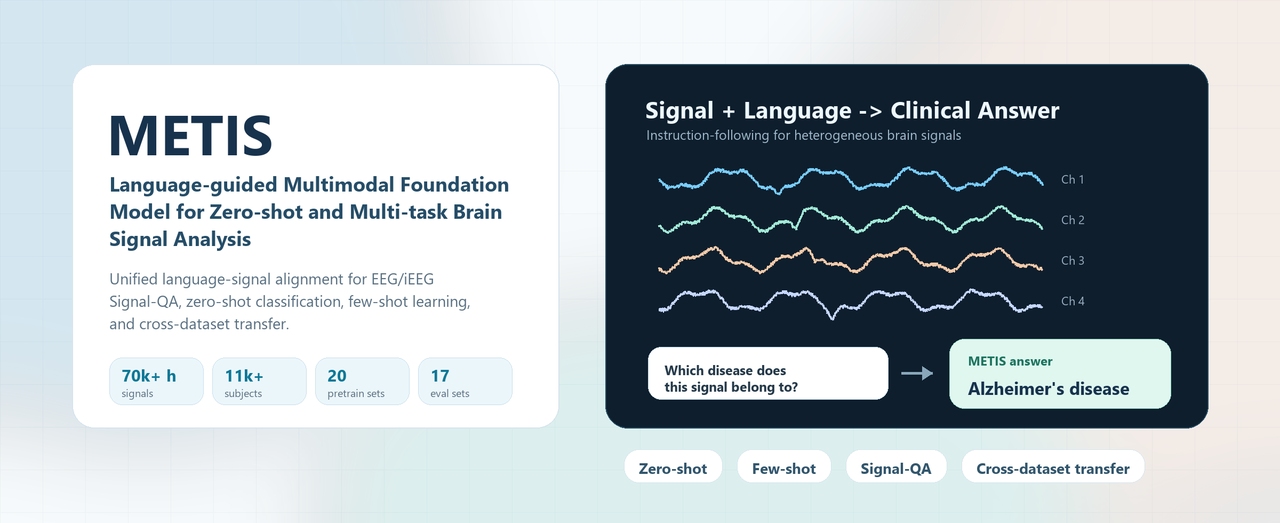
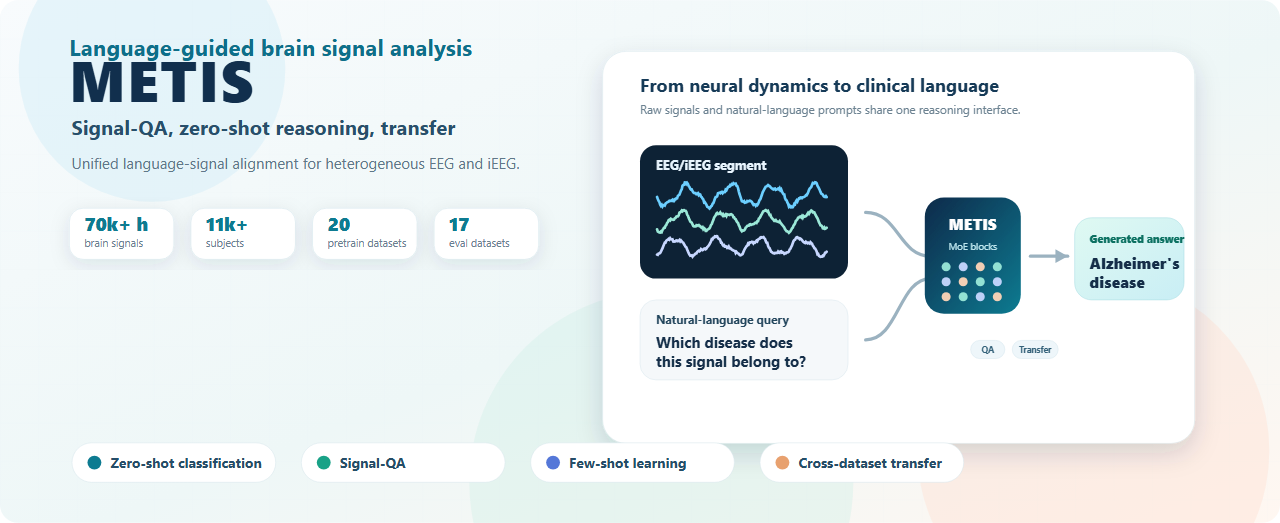
Refine repository showcase branding

diff --git a/README.md b/README.md
@@ -1,26 +1,28 @@
 <div align="center">
 
-<img src="assets/metis_banner.png" alt="METIS banner: language-guided multimodal foundation model for brain signal analysis" width="100%">
+<img src="assets/metis_wordmark.svg" alt="METIS wordmark" width="520">
 
-# METIS
+### A Language-guided Multimodal Foundation Model for Zero-shot and Multi-task Brain Signal Analysis
 
-**A Language-guided Multimodal Foundation Model for Zero-shot and Multi-task Brain Signal Analysis**
+[![Paper](https://img.shields.io/badge/Paper-coming%20soon-15395b?style=flat-square)](#citation)
+[![Project Page](https://img.shields.io/badge/Project%20Page-planned-0f766e?style=flat-square)](docs/SHOWCASE_PLAN.md#project-page)
+[![Demo Video](https://img.shields.io/badge/Demo%20Video-planned-b85c38?style=flat-square)](docs/SHOWCASE_PLAN.md#demo-video)
+[![Hugging Face](https://img.shields.io/badge/Hugging%20Face-planned-f6b43f?style=flat-square)](MODEL_ZOO.md)
+[![ModelScope](https://img.shields.io/badge/ModelScope-planned-6b5bd6?style=flat-square)](MODEL_ZOO.md)
+[![License](https://img.shields.io/badge/License-pending-6b7280?style=flat-square)](LICENSE_PENDING.md)
 
-[![Paper](https://img.shields.io/badge/Paper-coming%20soon-2f6f8f?style=for-the-badge)](#citation)
-[![Weights](https://img.shields.io/badge/Weights-upon%20publication-5b8def?style=for-the-badge)](MODEL_ZOO.md)
-[![License](https://img.shields.io/badge/License-pending-lightgrey?style=for-the-badge)](LICENSE_PENDING.md)
-[![Brain Signals](https://img.shields.io/badge/EEG%20%2B%20iEEG-70k%2B%20hours-0f766e?style=for-the-badge)](docs/DATASETS.md)
+<img src="assets/metis_hero.svg" alt="METIS language-signal alignment overview" width="100%">
 
-METIS aligns heterogeneous brain signals with natural-language instructions, turning neural-state assessment and disease identification into a unified Signal-QA problem.
+**METIS aligns heterogeneous brain signals with natural-language instructions, turning neural-state assessment and disease identification into a unified Signal-QA problem.**
 
-[Overview](#overview) | [Highlights](#highlights) | [Benchmarks](#benchmark-snapshots) | [Datasets](docs/DATASETS.md) | [Model Card](docs/MODEL_CARD.md) | [Model Zoo](MODEL_ZOO.md) | [Citation](#citation)
+[Overview](#overview) | [Highlights](#highlights) | [Benchmarks](#benchmark-snapshots) | [Release Roadmap](#release-roadmap) | [Datasets](docs/DATASETS.md) | [Model Card](docs/MODEL_CARD.md) | [Model Zoo](MODEL_ZOO.md) | [Citation](#citation)
 
 </div>
 
 ## News
 
 - **Release plan.** Code, checkpoints, and inference examples will be organized for a public release after publication review.
-- **Repository polish.** This README and the companion docs are prepared as the public-facing package layer; model code remains unchanged.
+- **Showcase plan.** The repository is prepared for a staged release with paper links, a project page, demo video, Hugging Face / ModelScope cards, and cleaned inference examples. See [docs/SHOWCASE_PLAN.md](docs/SHOWCASE_PLAN.md).
 
 ## Overview
 
@@ -94,11 +96,27 @@ General-purpose multimodal models often show thematic bias or modality confusion
 More details are available in [docs/BENCHMARKS.md](docs/BENCHMARKS.md).
 High-resolution PDF versions of the manuscript figures are available in [assets/pdf](assets/pdf).
 
+## Release Roadmap
+
+<p align="center">
+  <img src="assets/demo_teaser.svg" alt="METIS demo video teaser" width="82%">
+</p>
+
+| Surface | Role | Status |
+|---|---|---|
+| Paper / arXiv / DOI | Official citation and technical report | Planned after publication metadata is available |
+| Project page | Polished public landing page with figures, demo clip, and benchmark highlights | Planned |
+| Demo video | Short Signal-QA walkthrough for GitHub, project page, and model hubs | Storyboard prepared |
+| Hugging Face | Model card, collection, checkpoint release, and optional Space | Template prepared in [docs/HF_MODEL_CARD_TEMPLATE.md](docs/HF_MODEL_CARD_TEMPLATE.md) |
+| ModelScope | China-accessible mirror for model assets and demo materials | Planned |
+
 ## Repository Map
 
 ```text
 metis-brain-signal-foundation-model/
 |-- assets/                 # README figures and social preview assets
+|   |-- metis_wordmark.svg   # project wordmark
+|   |-- metis_hero.svg       # README hero visual
 |-- docs/                   # model, dataset, and benchmark documentation
 |-- MODEL_ZOO.md            # checkpoint release table and usage status
 |-- README.md               # public-facing project homepage

diff --git a/docs/SHOWCASE_PLAN.md b/docs/SHOWCASE_PLAN.md
@@ -1,0 +1,69 @@
+# Showcase Plan
+
+This document records the repository packaging direction for METIS. It is meant to keep the GitHub repository, future project page, demo video, and model hub pages visually and narratively consistent.
+
+## Reference Patterns
+
+The current direction borrows structural patterns from strong model repositories rather than copying their visual identity:
+
+| Reference Pattern | What To Borrow | METIS Adaptation |
+|---|---|---|
+| Qwen / DeepSeek style landing block | Centered wordmark, concise tagline, dense link row, clean performance sections | Use a professional METIS wordmark and a compact link matrix for paper, demo, model hubs, and docs. |
+| PKU-YuanGroup / Helios style release page | Clear launch links, demo video section, model download matrix, news log | Add planned project page, demo video, Hugging Face, ModelScope, and release-roadmap slots before public launch. |
+| MiniMind-V style community packaging | Strong visual identity, demo entry, collection links, accessible onboarding | Keep README friendly and skimmable while preserving the serious biomedical tone. |
+
+## Visual System
+
+| Element | Direction |
+|---|---|
+| Palette | Clinical navy, signal teal, soft cyan, restrained warm accent. |
+| Logo | Waveform icon plus METIS wordmark, designed to work on white backgrounds. |
+| Hero visual | Lightweight mechanism diagram: signal + prompt -> METIS -> generated clinical answer. |
+| Figures | Manuscript figures stay white-background PNGs in README, with PDF versions in `assets/pdf`. |
+| Tone | Foundation-model release page, not a generic paper repository. |
+
+## Project Page
+
+Planned sections:
+
+1. Hero: METIS wordmark, one-line claim, and main action buttons.
+2. Interactive Signal-QA demo clip or video.
+3. Four capability cards: zero-shot, Signal-QA, few-shot, cross-dataset transfer.
+4. Architecture story with Figure 1 and simplified diagrams.
+5. Benchmark highlights with Figure 2 / Figure 3 / Figure 5.
+6. Dataset scale and evaluation coverage.
+7. Citation, license, and release status.
+
+## Demo Video
+
+Recommended video structure:
+
+1. 5 seconds: problem framing, "brain signal analysis is fragmented".
+2. 10 seconds: show signal + natural-language prompt.
+3. 15 seconds: METIS answer generation and Signal-QA examples.
+4. 15 seconds: zero-shot and generalist-model comparison.
+5. 10 seconds: dataset scale and release information.
+6. 5 seconds: GitHub / Hugging Face / paper links.
+
+Visual teaser asset: [`assets/demo_teaser.svg`](../assets/demo_teaser.svg).
+
+## Hugging Face And Model Hubs
+
+When weights are ready, create:
+
+- a Hugging Face collection for METIS
+- one model card for the main checkpoint
+- one dataset / preprocessing card if redistribution rules allow it
+- a demo Space if inference can be simplified safely
+- a matching ModelScope collection for China-based access
+
+Keep the same wordmark, hero visual, summary claim, and citation block across all pages.
+
+Draft model-card structure: [HF_MODEL_CARD_TEMPLATE.md](HF_MODEL_CARD_TEMPLATE.md).
+
+## Next Visual Improvements
+
+- Add a short animated GIF once the Signal-QA demo is available.
+- Replace planned badges with real links after paper and model release.
+- Add a repository social preview image using `assets/social_preview.png`.
+- Consider a separate static project page under GitHub Pages after the paper link is available.

diff --git a/docs/HF_MODEL_CARD_TEMPLATE.md b/docs/HF_MODEL_CARD_TEMPLATE.md
@@ -1,0 +1,78 @@
+# Hugging Face Model Card Template
+
+This is a draft structure for the future METIS Hugging Face model card. Replace placeholders only after the paper, license, and checkpoint release details are finalized.
+
+---
+license: pending
+language:
+  - en
+tags:
+  - eeg
+  - ieeg
+  - brain-signal-analysis
+  - multimodal
+  - foundation-model
+  - signal-qa
+  - zero-shot-classification
+pipeline_tag: feature-extraction
+library_name: pytorch
+---
+
+# METIS
+
+**METIS: A Language-guided Multimodal Foundation Model for Zero-shot and Multi-task Brain Signal Analysis**
+
+METIS aligns heterogeneous EEG/iEEG recordings with natural-language instructions, enabling Signal-QA, zero-shot classification, few-shot learning, and cross-dataset transfer.
+
+![METIS hero](../assets/metis_hero.png)
+
+## Release Status
+
+| Asset | Status |
+|---|---|
+| Paper | Pending |
+| Checkpoint | Pending publication |
+| Inference demo | Planned |
+| Evaluation scripts | Planned |
+| License | Pending |
+
+## Intended Use
+
+- Research on brain-signal foundation models
+- EEG/iEEG representation learning
+- Zero-shot and few-shot brain-signal analysis
+- Signal-QA benchmarking
+
+## Out-of-scope Use
+
+METIS is a research model and is not a standalone clinical diagnostic system. Clinical use requires prospective validation, regulatory review, and expert oversight.
+
+## Model Details
+
+| Field | Value |
+|---|---|
+| Architecture | Signal encoder + multimodal transformer + MoE |
+| Modalities | EEG, iEEG |
+| Layers | 12 |
+| Hidden size | 512 |
+| MoE | 8 routed experts + 1 shared expert |
+| Pretraining corpus | 70,000+ hours, 11,000+ subjects, 20 datasets |
+
+## Example
+
+```text
+Signal: EEG/iEEG segment
+Question: Which disease does this signal belong to?
+Answer: Alzheimer's disease
+```
+
+## Citation
+
+```bibtex
+@article{chen2026metis,
+  title   = {A Language-guided Multimodal Foundation Model for Zero-shot and Multi-task Brain Signal Analysis},
+  author  = {Chen, Mingzhi and Gui, Yiyu and Luo, Guibo and Yang, Yuchao},
+  year    = {2026},
+  note    = {Manuscript; publication metadata pending}
+}
+```

diff --git a/MODEL_ZOO.md b/MODEL_ZOO.md
@@ -2,16 +2,17 @@
 
 METIS checkpoints are planned for release after publication. This table is designed to be filled without changing the README structure.
 
-| Model | Modality | Layers | Hidden Size | MoE | Intended Use | Status |
-|---|---|---:|---:|---|---|---|
-| METIS-Base | EEG + iEEG | 12 | 512 | 8 routed experts + 1 shared expert | Zero-shot Signal-QA, few-shot linear probing, cross-dataset transfer | Planned |
-| METIS-Encoder | EEG + iEEG | 12 | 512 | Same backbone | Feature extraction for downstream classifiers | Planned |
+| Model | Modality | Layers | Hidden Size | MoE | Intended Use | Release Target | Status |
+|---|---|---:|---:|---|---|---|---|
+| METIS-Base | EEG + iEEG | 12 | 512 | 8 routed experts + 1 shared expert | Zero-shot Signal-QA, few-shot linear probing, cross-dataset transfer | Hugging Face + ModelScope | Planned |
+| METIS-Encoder | EEG + iEEG | 12 | 512 | Same backbone | Feature extraction for downstream classifiers | Hugging Face + ModelScope | Planned |
 
 ## Release Notes
 
 - Checkpoints will be released for non-commercial academic use after the article is published, subject to the final license decision.
 - The first public package should include model weights, preprocessing examples, inference scripts, and evaluation recipes.
 - If a model hub is used later, add Hugging Face / ModelScope links in the `Status` column and keep SHA256 checksums here.
+- The matching model-card draft lives in [docs/HF_MODEL_CARD_TEMPLATE.md](docs/HF_MODEL_CARD_TEMPLATE.md).
 
 ## Suggested Card Fields
 
